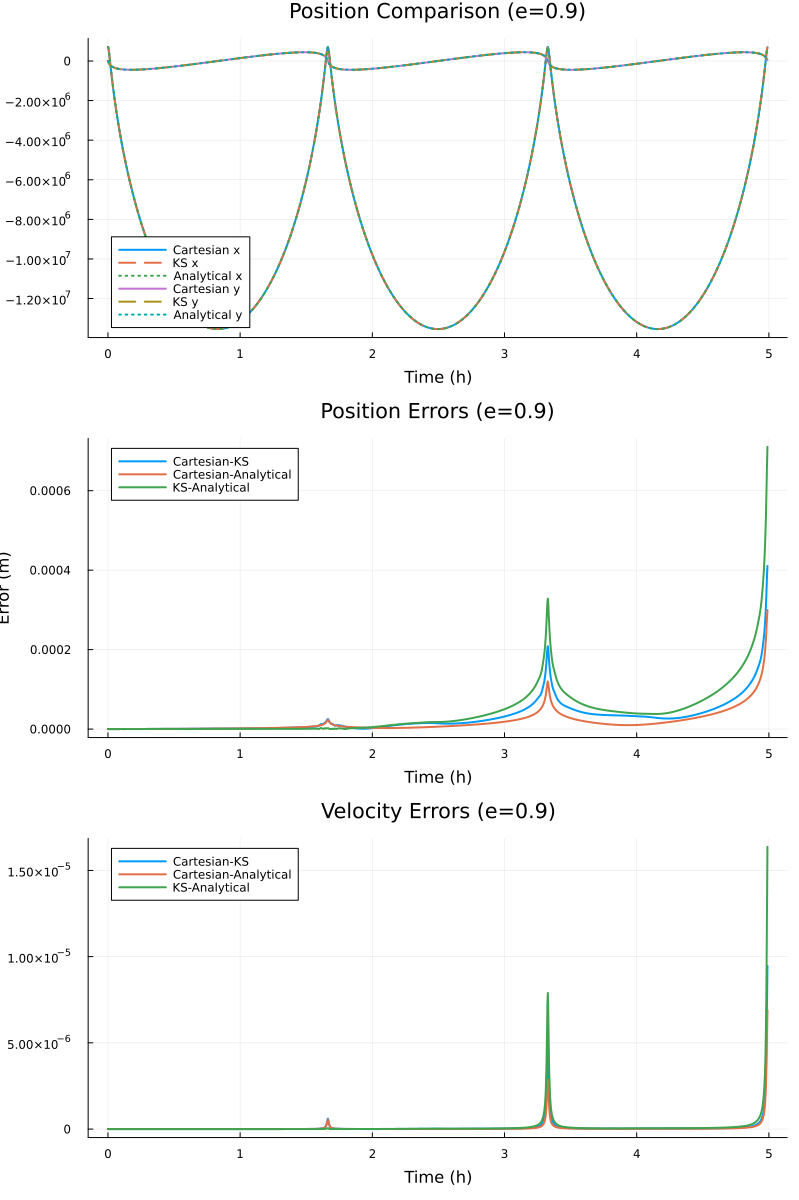
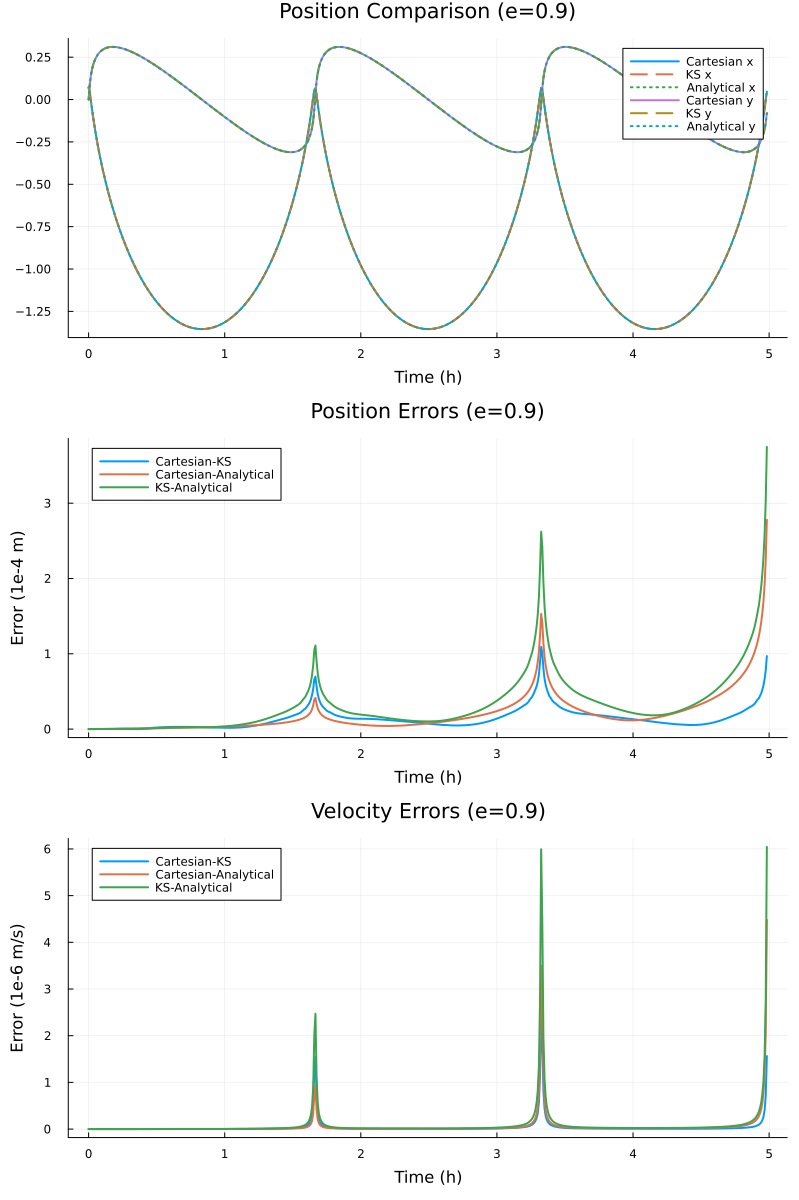
Fix KS propagation and improve plot formatting
- Integrate KS dynamics in fictitious time s (not real time t)
- Add plot normalization with 1eN scientific notation labels
- Combine error plots and update test configuration
- Update README with Pkg.resolve() command

diff --git a/README.md b/README.md
@@ -7,6 +7,11 @@ Install dependencies:
 julia --project=. -e 'using Pkg; Pkg.instantiate()'
 ```
 
+Update package resolution (resolve dependencies):
+```bash
+julia --project=. -e 'using Pkg; Pkg.resolve()'
+```
+
 Run scripts:
 ```bash
 julia --project=. julia_script.jl
